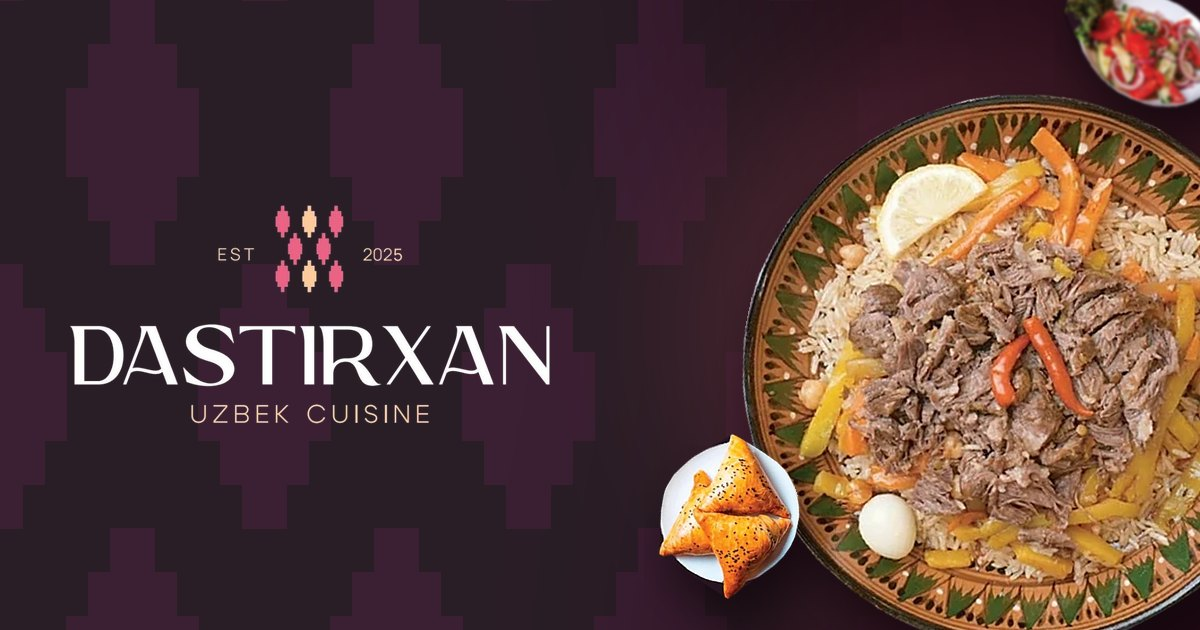
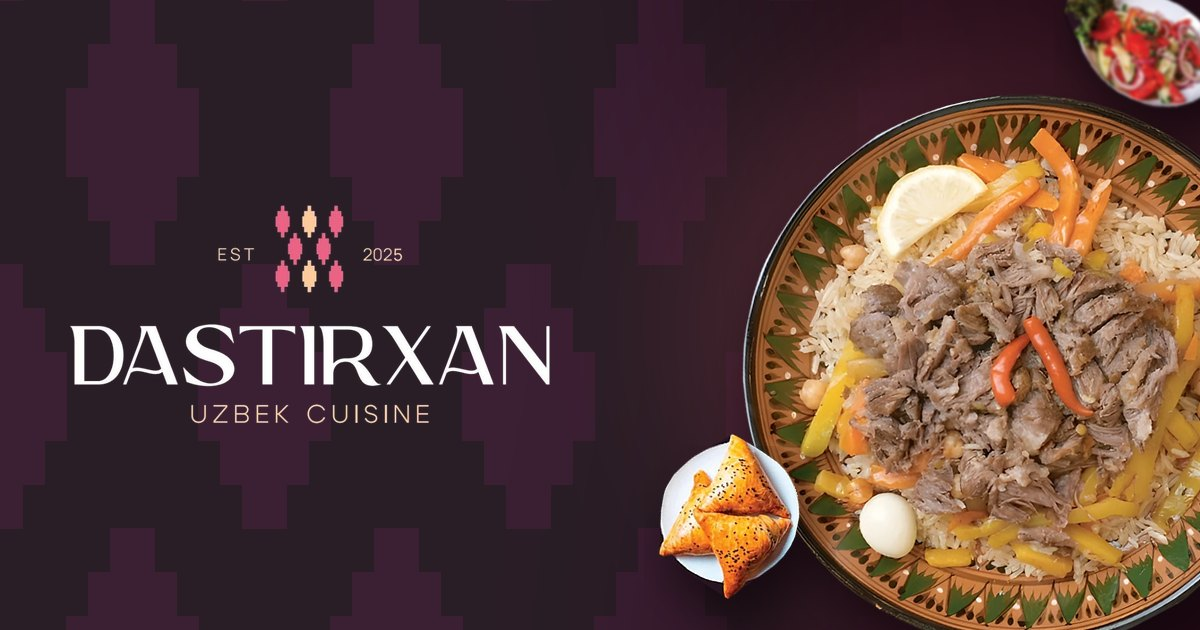
HD hero plov plate and soft steam over hot dishes
- Replace the soft 437px hero plate with a 4x AI-upscaled cut-out
  (1400px WebP); the showcase plov and the share image use it too
- New reusable steam effect: radial-gradient puffs that rise off hot
  food and dissolve into the dark, transform/opacity only, paused
  off-screen and hidden for reduced motion
- Steam on the hero plate (after it lands), signature hot dishes
  (not desserts), the lunch SET and the grill set boards

Changed region(s): [[0.6167, 0.1508, 1.0, 1.0]]

diff --git a/assets/js/main.js b/assets/js/main.js
@@ -129,21 +129,21 @@
       if (id === sigTab) return; sigTab = id; renderSig(true);
     });
   }
-  function dishHTML(d, i) {
+  function dishHTML(d, i, hot) {
     var L = LIDX[lang];
-    return '<article class="dish" style="--i:' + i + '"><div class="dish__plate"><img src="assets/img/food/' + d.img + '.webp" alt="' + esc(d.name[L]) + '" loading="lazy" decoding="async"></div>' +
+    return '<article class="dish" style="--i:' + i + '"><div class="dish__plate">' + (hot ? '<div class="vapor" data-vapor="6"></div>' : '') + '<img src="assets/img/food/' + d.img + '.webp" alt="' + esc(d.name[L]) + '" loading="lazy" decoding="async"></div>' +
       '<h3>' + esc(d.name[L]) + '</h3><p>' + esc(d.desc[L]) + '</p><span class="price">' + won(d.price) + '</span></article>';
   }
   function renderSig(animate) {
     var box = $('[data-sig-plates]'), group = SIG.filter(function (g) { return g.id === sigTab; })[0];
-    var html = group.dishes.map(dishHTML).join('');
-    if (!animate || reduceMotion || !box.children.length) { box.innerHTML = html; return; }
-    if (sigBusy) { box.innerHTML = html; return; }
+    var hot = group.id !== 'dessert';
+    var html = group.dishes.map(function (d, i) { return dishHTML(d, i, hot); }).join('');
+    if (!animate || reduceMotion || !box.children.length || sigBusy) { box.innerHTML = html; fillVapor(box); return; }
     sigBusy = true;
     trayRot -= 120; $('.sig__tray').style.setProperty('--rot', trayRot + 'deg');
     $$('.dish', box).forEach(function (el) { el.classList.add('is-out'); });
     setTimeout(function () {
-      box.innerHTML = html;
+      box.innerHTML = html; fillVapor(box);
       var fresh = $$('.dish', box);
       fresh.forEach(function (el) { el.classList.add('is-pre'); });
       void box.offsetWidth;
@@ -158,12 +158,13 @@
       if (s.people) meta += '<span class="chip"><svg class="i" aria-hidden="true"><use href="assets/img/icons.svg#i-users-three"/></svg>' + fill(t('sets.people'), { n: s.people.join('-') }) + '</span>';
       meta += '<span class="chip"><svg class="i" aria-hidden="true"><use href="assets/img/icons.svg#i-timer"/></svg>' + fill(t('sets.time'), { n: s.time }) + '</span>';
       var pp = s.people ? '<span>' + fill(t('sets.pp'), { p: won(Math.round(s.price / s.people[1] / 100) * 100) }) + '</span>' : '';
-      return '<article class="set" data-reveal-set><div class="set__img"><img src="assets/img/food/' + s.img + '.webp" alt="' + esc(s.name) + '" loading="lazy" decoding="async"></div>' +
+      return '<article class="set" data-reveal-set><div class="set__img"><div class="vapor" data-vapor="6"></div><img src="assets/img/food/' + s.img + '.webp" alt="' + esc(s.name) + '" loading="lazy" decoding="async"></div>' +
         '<div class="set__body"><h3 class="set__name">' + esc(s.name) + '</h3><p class="set__desc">' + esc(t('sets.d.' + s.d)) + '</p>' +
         '<div class="set__meta">' + meta + '</div><div class="set__price"><strong>' + won(s.price) + '</strong>' + pp + '</div>' +
         '<button class="btn btn--ghost btn--sm" type="button" data-book data-guests="' + (s.people ? s.people[1] : 4) + '"><svg class="i" aria-hidden="true"><use href="assets/img/icons.svg#i-calendar-blank"/></svg><span>' + esc(t('cta.book')) + '</span></button></div></article>';
     }).join('');
     $$('[data-reveal-set]').forEach(function (el) { io.observe(el); });
+    fillVapor($('[data-sets]'));
   }
 
   /* ---------- full menu ---------- */
@@ -231,6 +232,26 @@
       if (k < 1) requestAnimationFrame(step);
     }
     requestAnimationFrame(step);
+  }
+
+  /* ---------- steam over hot dishes (animates only while on screen) ---------- */
+  var vaporIO = new IntersectionObserver(function (entries) {
+    entries.forEach(function (en) { en.target.classList.toggle('is-live', en.isIntersecting); });
+  }, { rootMargin: '80px 0px' });
+  function fillVapor(root) {
+    if (reduceMotion) return;
+    $$('[data-vapor]', root).forEach(function (v) {
+      if (v.childElementCount) return;
+      var n = +v.getAttribute('data-vapor') || 6, html = '';
+      for (var i = 0; i < n; i++) {
+        var d = 4.6 + Math.random() * 2.8;
+        html += '<i style="--x:' + (28 + Math.random() * 44).toFixed(1) + '%;--s:' + (34 + Math.random() * 22).toFixed(1) + '%;--d:' + d.toFixed(2) +
+          's;--delay:' + (-(i / n) * d - Math.random() * 0.6).toFixed(2) + 's;--sway:' + (Math.random() * 36 - 18).toFixed(0) + 'px;--tilt:' + (Math.random() * 24 - 12).toFixed(0) +
+          'deg;--o:' + (0.4 + Math.random() * 0.22).toFixed(2) + '"></i>';
+      }
+      v.innerHTML = html;
+      vaporIO.observe(v);
+    });
   }
 
   /* ---------- embers rising from the plate ---------- */
@@ -407,6 +428,7 @@
 
   /* ---------- boot ---------- */
   applyLang(detectLang(), true);
+  fillVapor(document);
   embers();
   staggerGroups();
   $$('[data-reveal], .ikat-reveal, .feat, .sig__plates, .lunch__visual, [data-count-to], .final__title').forEach(function (el) { io.observe(el); });

diff --git a/assets/css/style.css b/assets/css/style.css
@@ -171,12 +171,27 @@ html[lang="ru"] .script { font-size: clamp(28px, 3vw, 42px); }
   mask: radial-gradient(circle, transparent calc(50% - 9px), #000 calc(50% - 8px), #000 50%, transparent calc(50% + 1px));
   animation: spin 160s linear infinite reverse; opacity: .75; }
 
-/* steam rises from the centre of the plate */
-.steam { --sw: calc(var(--plate) * .36); --sh: calc(var(--plate) * .62); position: absolute; z-index: 3; width: var(--sw); height: var(--sh); right: calc(-1 * var(--off) + var(--plate) / 2 - var(--sw) / 2); top: calc(50% - var(--sh) + var(--plate) * .06); pointer-events: none; overflow: visible; filter: blur(7px); }
-.steam path { fill: none; stroke: rgba(255, 244, 236, .5); stroke-width: 9; stroke-linecap: round; stroke-dasharray: 60 260; stroke-dashoffset: 320; opacity: 0; animation: steam 5.2s ease-in-out infinite; }
-.steam path:nth-child(2) { animation-delay: 1.7s; stroke-width: 12; }
-.steam path:nth-child(3) { animation-delay: 3.3s; }
-@keyframes steam { 0% { stroke-dashoffset: 320; opacity: 0; } 25% { opacity: .85; } 75% { opacity: .3; } 100% { stroke-dashoffset: 20; opacity: 0; } }
+/* soft steam: blurred-looking puffs (radial gradients, transform + opacity only) rising off hot food */
+.vapor { position: absolute; z-index: 3; pointer-events: none; }
+.vapor i { position: absolute; bottom: 0; left: var(--x); width: var(--s); aspect-ratio: 1 / 1.55; border-radius: 50%;
+  background: radial-gradient(50% 50% at 50% 50%, rgba(255, 249, 244, .62) 0%, rgba(255, 249, 244, .26) 36%, rgba(255, 249, 244, 0) 72%);
+  transform-origin: 50% 100%; opacity: 0; mix-blend-mode: screen; will-change: transform, opacity;
+  animation: vapor var(--d) cubic-bezier(.3, .15, .45, 1) var(--delay) infinite; animation-play-state: paused; }
+.vapor.is-live i { animation-play-state: running; }
+/* faint over the food, strongest once it clears the rim and meets the dark room, then it dissolves */
+@keyframes vapor {
+  0% { transform: translate(-50%, 20%) scale(.34, .44) rotate(0deg); opacity: 0; }
+  16% { opacity: calc(var(--o) * .55); }
+  52% { transform: translate(calc(-50% + var(--sway)), -75%) scale(.9, 1.06) rotate(calc(var(--tilt) * .5)); opacity: var(--o); }
+  80% { opacity: calc(var(--o) * .65); }
+  100% { transform: translate(calc(-50% - var(--sway)), var(--rise, -195%)) scale(1.6, 1.85) rotate(var(--tilt)); opacity: 0; }
+}
+.vapor--hero { animation: fadeIn 1.6s ease 1.7s both; width: calc(var(--plate) * .56); height: calc(var(--plate) * .8); right: calc(-1 * var(--off) + var(--plate) * .22); top: calc(50% - var(--plate) * .66); }
+.vapor--lunch { width: 46%; height: 62%; left: 14%; top: -14%; }
+.dish__plate { position: relative; }
+.dish__plate .vapor { --rise: -130%; width: 58%; height: 70%; left: 21%; bottom: 48%; }
+.set__img { position: relative; }
+.set__img .vapor { --rise: -140%; width: 62%; height: 90%; left: 19%; bottom: 42%; }
 
 .floater { position: absolute; z-index: 4; pointer-events: none; }
 .floater__in { animation: floatIn 1.6s var(--ease) both, bob 7s ease-in-out 1.6s infinite; }
@@ -212,6 +227,7 @@ html[lang="ru"] .script { font-size: clamp(28px, 3vw, 42px); }
 .hero__script, .hero__sub, .hero__ctas { animation: fadeUp 1s var(--ease) both; }
 .hero__script { animation-delay: .1s; } .hero__sub { animation-delay: .9s; } .hero__ctas { animation-delay: 1.05s; }
 @keyframes fadeUp { from { opacity: 0; transform: translateY(22px); } }
+@keyframes fadeIn { from { opacity: 0; } }
 .hero__script { animation-name: fadeUpRot; }
 @keyframes fadeUpRot { from { opacity: 0; transform: translateY(22px) rotate(-4deg); } to { transform: rotate(-4deg); } }
 
@@ -595,7 +611,7 @@ html.js [data-reveal].in { opacity: 1; transform: none; }
   html { scroll-behavior: auto; }
   *, *::before, *::after { animation-duration: .001ms !important; animation-delay: 0s !important; animation-iteration-count: 1 !important; transition-duration: .001ms !important; transition-delay: 0s !important; }
   .plate__img, .hero__ring, .badge__ring, .lunch__img, .final__pattern, .floater__in { animation: none !important; }
-  .steam, .embers { display: none; }
+  .vapor, .embers { display: none; }
   html.js .ikat-reveal { -webkit-mask: none; mask: none; }
   html.js .ikat-reveal img { transform: none; }
 }

diff --git a/index.html b/index.html
@@ -34,7 +34,7 @@
 <meta name="twitter:description" content="Incheondagi o‘zbek milliy taomlari restorani. Samarqand palovi, mangal, banketlar. Har kuni 11:00-23:00.">
 <meta name="twitter:image" content="https://dastirxan-web.vercel.app/assets/img/og.jpg">
 
-<link rel="preload" href="assets/img/food/palov.webp" as="image" fetchpriority="high">
+<link rel="preload" href="assets/img/food/palov-hd.webp" as="image" fetchpriority="high">
 <link rel="preload" href="assets/fonts/marcellus-latin.woff2" as="font" type="font/woff2" crossorigin>
 <link rel="stylesheet" href="assets/css/fonts.css">
 <link rel="stylesheet" href="assets/css/style.css">
@@ -155,15 +155,11 @@
       <div class="plate plate--hero">
         <div class="plate__scroll">
           <div class="plate__drop">
-            <img class="plate__img" src="assets/img/food/palov.webp" alt="" width="437" height="435" fetchpriority="high">
+            <img class="plate__img" src="assets/img/food/palov-hd.webp" alt="" width="1400" height="1394" fetchpriority="high">
           </div>
         </div>
       </div>
-      <svg class="steam" viewBox="0 0 200 260" preserveAspectRatio="none">
-        <path d="M60 250 C 40 200, 90 180, 70 130 S 60 60, 85 10"/>
-        <path d="M100 250 C 120 205, 80 170, 105 120 S 125 55, 100 5"/>
-        <path d="M140 250 C 160 210, 120 185, 140 135 S 150 70, 128 15"/>
-      </svg>
+      <div class="vapor vapor--hero" data-vapor="10"></div>
       <div class="floater floater--samsa"><div class="floater__in"><img src="assets/img/food/float-samsa.webp" alt="" width="243" height="253"></div></div>
       <div class="floater floater--achichuk"><div class="floater__in"><img src="assets/img/food/float-achichuk.webp" alt="" width="360" height="227"></div></div>
       <div class="floater floater--basket"><div class="floater__in"><img src="assets/img/food/float-basket.webp" alt="" width="423" height="278"></div></div>
@@ -231,6 +227,7 @@
   <div class="lunch__inner wrap">
     <div class="lunch__visual" aria-hidden="true">
       <div class="lunch__glow"></div>
+      <div class="vapor vapor--lunch" data-vapor="7"></div>
       <img class="lunch__img" src="assets/img/food/lunch-set.webp" alt="" width="467" height="474" loading="lazy">
     </div>
     <div class="lunch__copy" data-reveal>

diff --git a/assets/js/menu.js b/assets/js/menu.js
@@ -178,7 +178,7 @@ window.DX_MENU = [
 /* Plate showcase: four tabs, three top-down plates each. Images live in assets/img/food/. */
 window.DX_SIGNATURE = [
   { id: 'national', dishes: [
-    { img: 'palov', price: 14000, name: ['Samarqand palovi', 'Самаркандский плов', 'Samarkand plov', '사마르칸트식 프러브'],
+    { img: 'palov-hd', price: 14000, name: ['Samarqand palovi', 'Самаркандский плов', 'Samarkand plov', '사마르칸트식 프러브'],
       desc: ['Qozonda damlangan guruch, mol go‘shti, sariq sabzi va no‘xat.', 'Рис из казана, говядина, жёлтая морковь и нут.', 'Kazan-cooked rice, beef, yellow carrots and chickpeas.', '카잔에 지은 밥, 소고기, 노란 당근, 병아리콩.'] },
     { img: 'manti', price: 14000, name: ['Manti', 'Манты', 'Manti', '만티'],
       desc: ['Bug‘da pishgan, ichida issiq va suvli bulyoni bor.', 'На пару, с горячим сочным бульоном внутри.', 'Steamed, with hot juicy broth inside.', '쪄낸 만두 속에 뜨거운 육즙이 가득합니다.'] },
